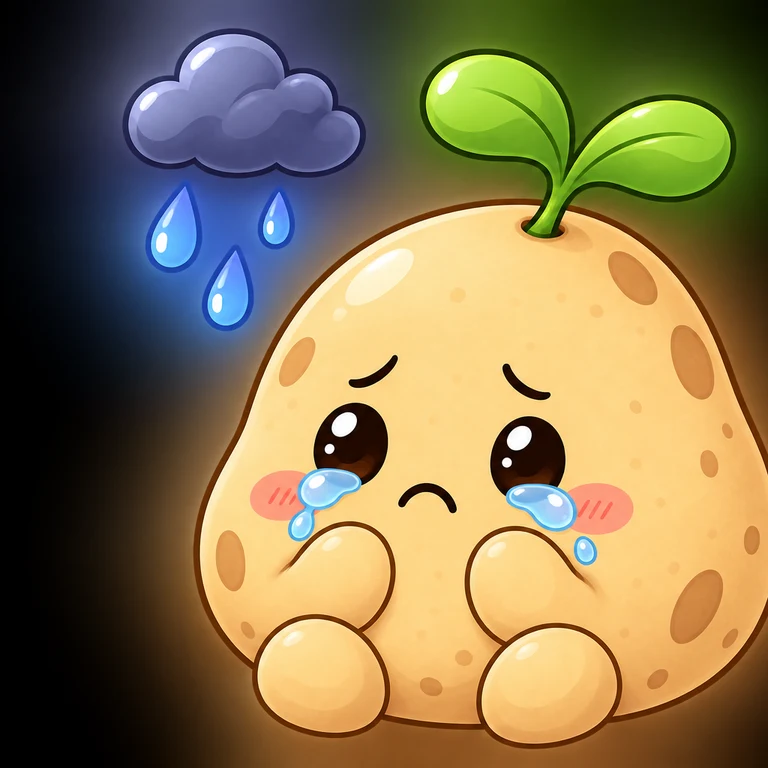
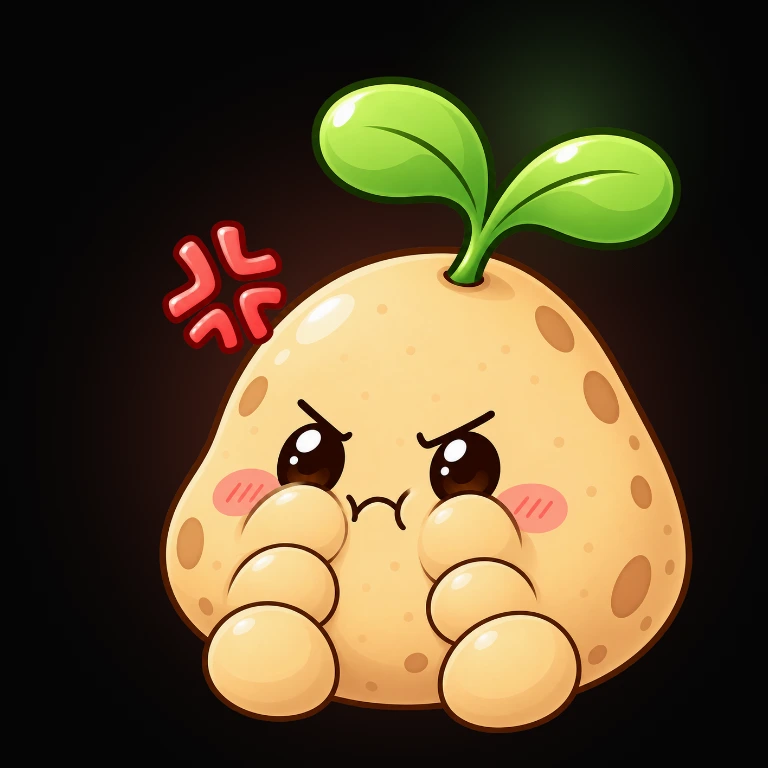
fix(character): angry 표정 신규 일러 반영 (sad 복제 버그 해소)
- transparent/angry.png: 신규 화남 표정 (💢 이펙트), 512px 최적화
- angry.webp: 투명본에 다크 배경+붉은 글로우 캔버스 합성으로 재생성
  (원본 시트 추출 때부터 sad와 동일 파일이던 자산 버그 종결)

Claude-Session: https://claude.ai/code/session_01WfTstk1CtnbRPjhgrmiuSv

diff --git a/src/lib/character/chito.ts b/src/lib/character/chito.ts
@@ -32,7 +32,7 @@ export function getChitoEmotionUrl(emotion: PrimaryEmotion): string {
 }
 
 /** 감정별 투명 배경 버전 (라이트 UI용, 2026-09-07)
- * ⚠ angry는 원본 시트에 화남 표정이 없어 sad 복제 상태 — 신규 일러 도착 시 교체 */
+ * angry는 신규 일러로 교체 완료 (다크 webp는 투명본에 배경 합성해 재생성) */
 export function getChitoTransparentEmotionUrl(emotion: PrimaryEmotion): string {
   return `/chito/transparent/${emotion}.png`;
 }
